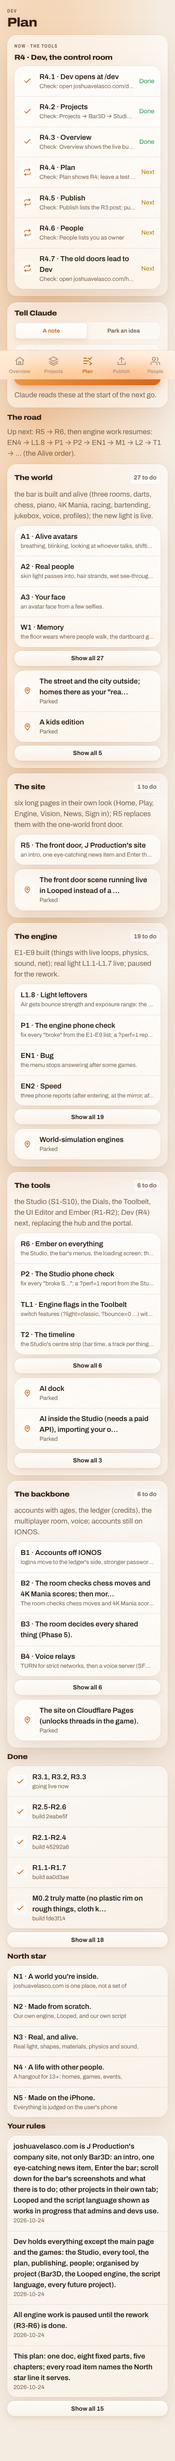
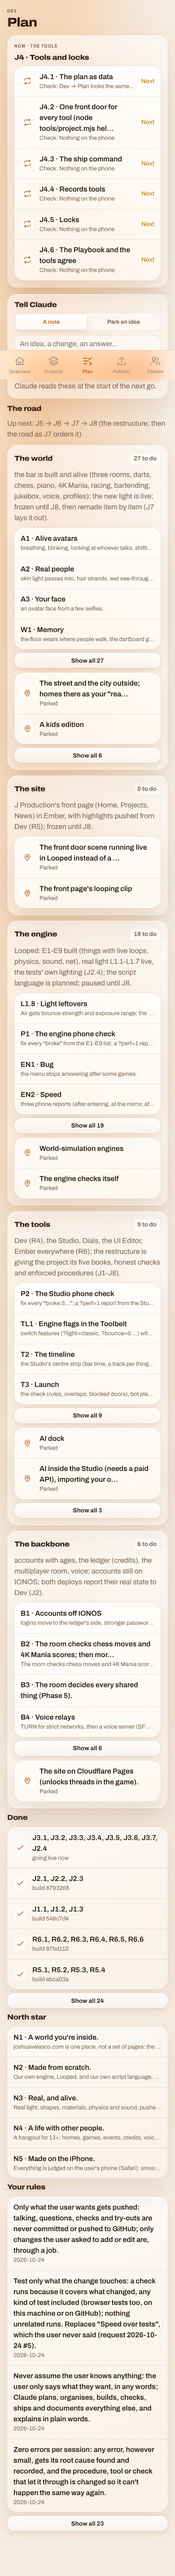
J4.1 The plan as data: docs/plan/plan.json and docs/charter/rules.json (the user's North star and rules) are the source, written only by tools/plan.mjs (same commands, plus chapter and render); every save writes PLAN.md, the Charter's rules block and CLAUDE.md's Never list; converted without losing 

Changed region(s): [[0.0, 0.0, 0.9538, 0.9993]]

diff --git a/README.md b/README.md
@@ -6,6 +6,14 @@ benchmarks by `tools/bench.mjs` (see `bench.jsonl`).
 
 Latest benchmark (2026-10-22 18:44, 922ec64): gi_triangles_full 642040 tris, gi_triangles 99105 tris, gi_load_ms 167 ms, gi_simplify_ms 28 ms, gi_bvh_ms 239 ms, gi_patches 58292, gi_probes_usable 10128, gi_build_ms 6666 ms, gi_rays_per_s 0.59 M/s, gi_solve4_ms 12.6 ms
 
+## J4.1 The plan as data: docs/plan/plan.json and docs/charter/rules.json (the user's North star and rules) are the source, written only by tools/plan.mjs (same commands, plus chapter and render); every save writes PLAN.md, the Charter's rules block and CLAUDE.md's Never list; converted without losing a word (proved both ways); Dev reads the data instead of parsing PLAN.md (and now shows the North star lines whole); the site deploy uploads the data; the five chapter lines brought up to date; KI-4 and KI-10 closed
+
+`a867cf9` · 2026-10-24 12:24 · 16 files, +1161 −206 · tests: changed
+
+Phone check: Dev → Plan looks the same, nothing missing; the North star lines are now whole sentences
+
+![J4.1 page-dev-index-demo-plan.jpg](J4.1/page-dev-index-demo-plan.jpg)
+
 ## J2.4 The tests' own lighting (request 2026-10-24 #6): ?light=test is classic light with a flat light from above instead of every lamp per pixel (scene.wgsl shade() returns early), and no reflections, glow and mood or full mirrors; GitHub's tests use it (TEST_LIGHT=test); the phone and the pictures keep the real light; docs/manual/light.md, KI-5 and KI-28 updated
 
 `959ba86` · 2026-10-24 12:13 · 11 files, +51 −13 · tests: quick
